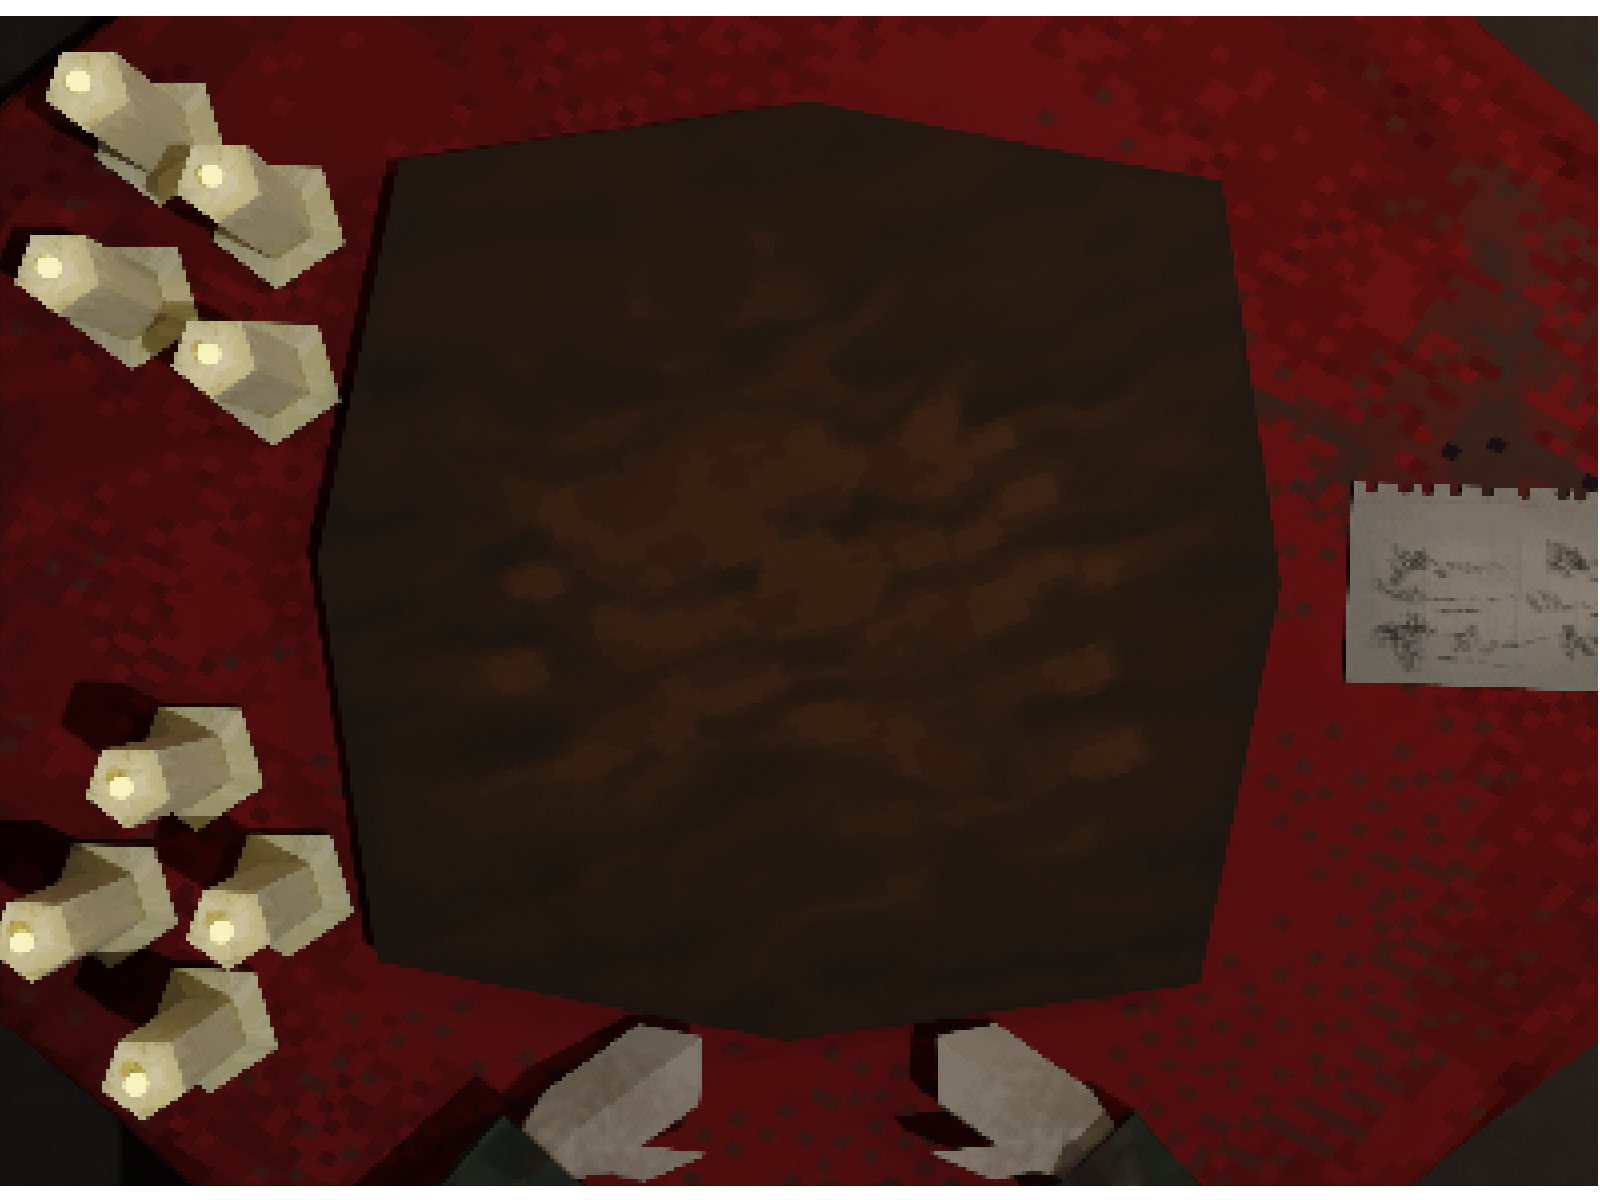
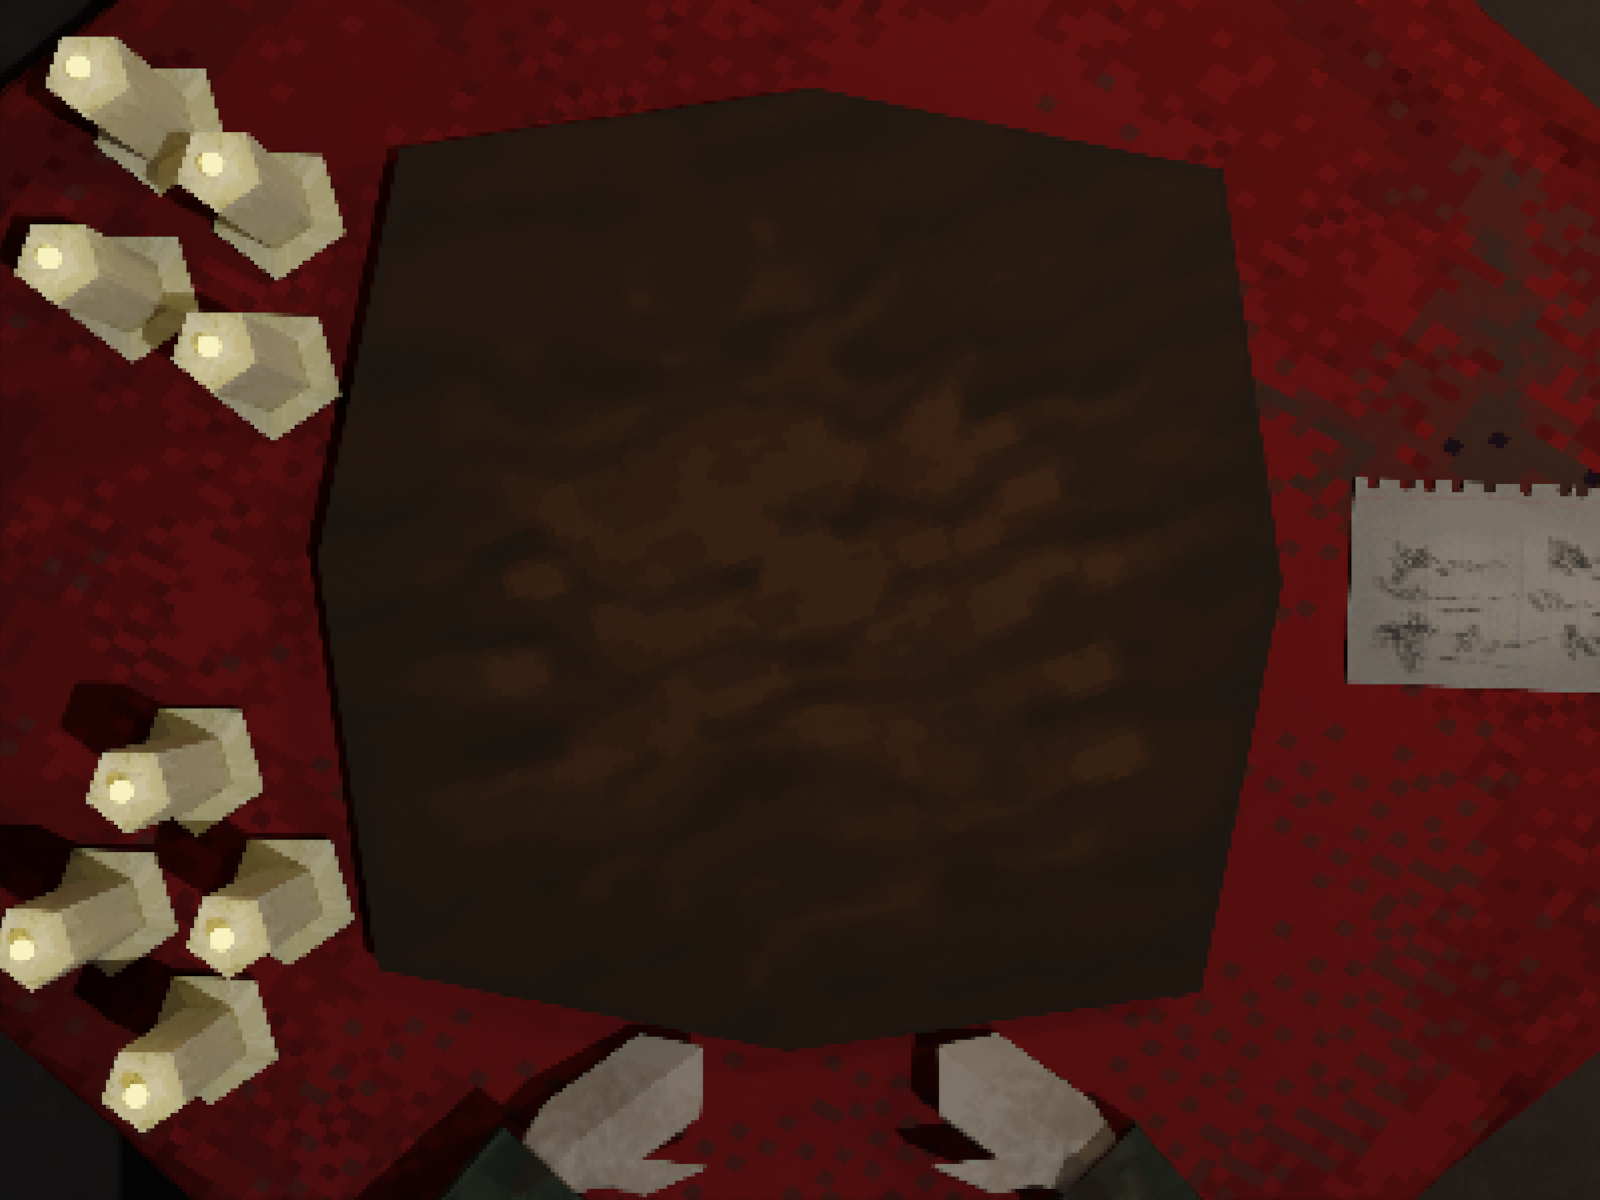
nuevo fondo

diff --git a/Hollenhaus/Hollenhaus proyect VS/src/game/factories/MatchStateUIFactory_v0.cpp b/Hollenhaus/Hollenhaus proyect VS/src/game/factories/MatchStateUIFactory_v0.cpp
@@ -96,8 +96,8 @@ ecs::entity_t MatchStateUIFactory_v0::createVisual_BackgroundBoard()
     background->addComponent<Transform>();
 
     //background->getComponent<Transform>()->getGlobalScale().set(0.5, 0.5);
-    background->getComponent<Transform>()->setGlobalScale(0.5, 0.5);
+    background->getComponent<Transform>()->setGlobalScale(0.50, 0.50);
 
-    background->addComponent<SpriteRenderer>("board5");
+    background->addComponent<SpriteRenderer>("board6");
     return background;
 }

diff --git a/Hollenhaus/Hollenhaus proyect VS/src/game/gamestates/DeckBuildingState.cpp b/Hollenhaus/Hollenhaus proyect VS/src/game/gamestates/DeckBuildingState.cpp
@@ -146,8 +146,8 @@ void DeckBuildingState::onEnter()
 	auto shinePostit = Confirm->addComponent<ShineComponent>();
 	shinePostit->addEnt(Confirm->getComponent<SpriteRenderer>(), "postit_guardar_mazo_brilli");
 
-	/*
-	* 
+	
+	 
 
 
 	// ---- Pasar cajon alante:

diff --git a/Hollenhaus/Hollenhaus proyect VS/src/game/factories/BoardFactory_v0.cpp b/Hollenhaus/Hollenhaus proyect VS/src/game/factories/BoardFactory_v0.cpp
@@ -16,8 +16,8 @@
 ecs::entity_t BoardFactory_v0::createBoard()
 {
 	// odio estos putisimos numeros
-	int initialX = 260;//284
-	int initialY = 90-9;//135
+	int initialX = 266;//284
+	int initialY = 86;//135
 	int offSetX = 67;//62
 	int offSetY = 96;//84
 
